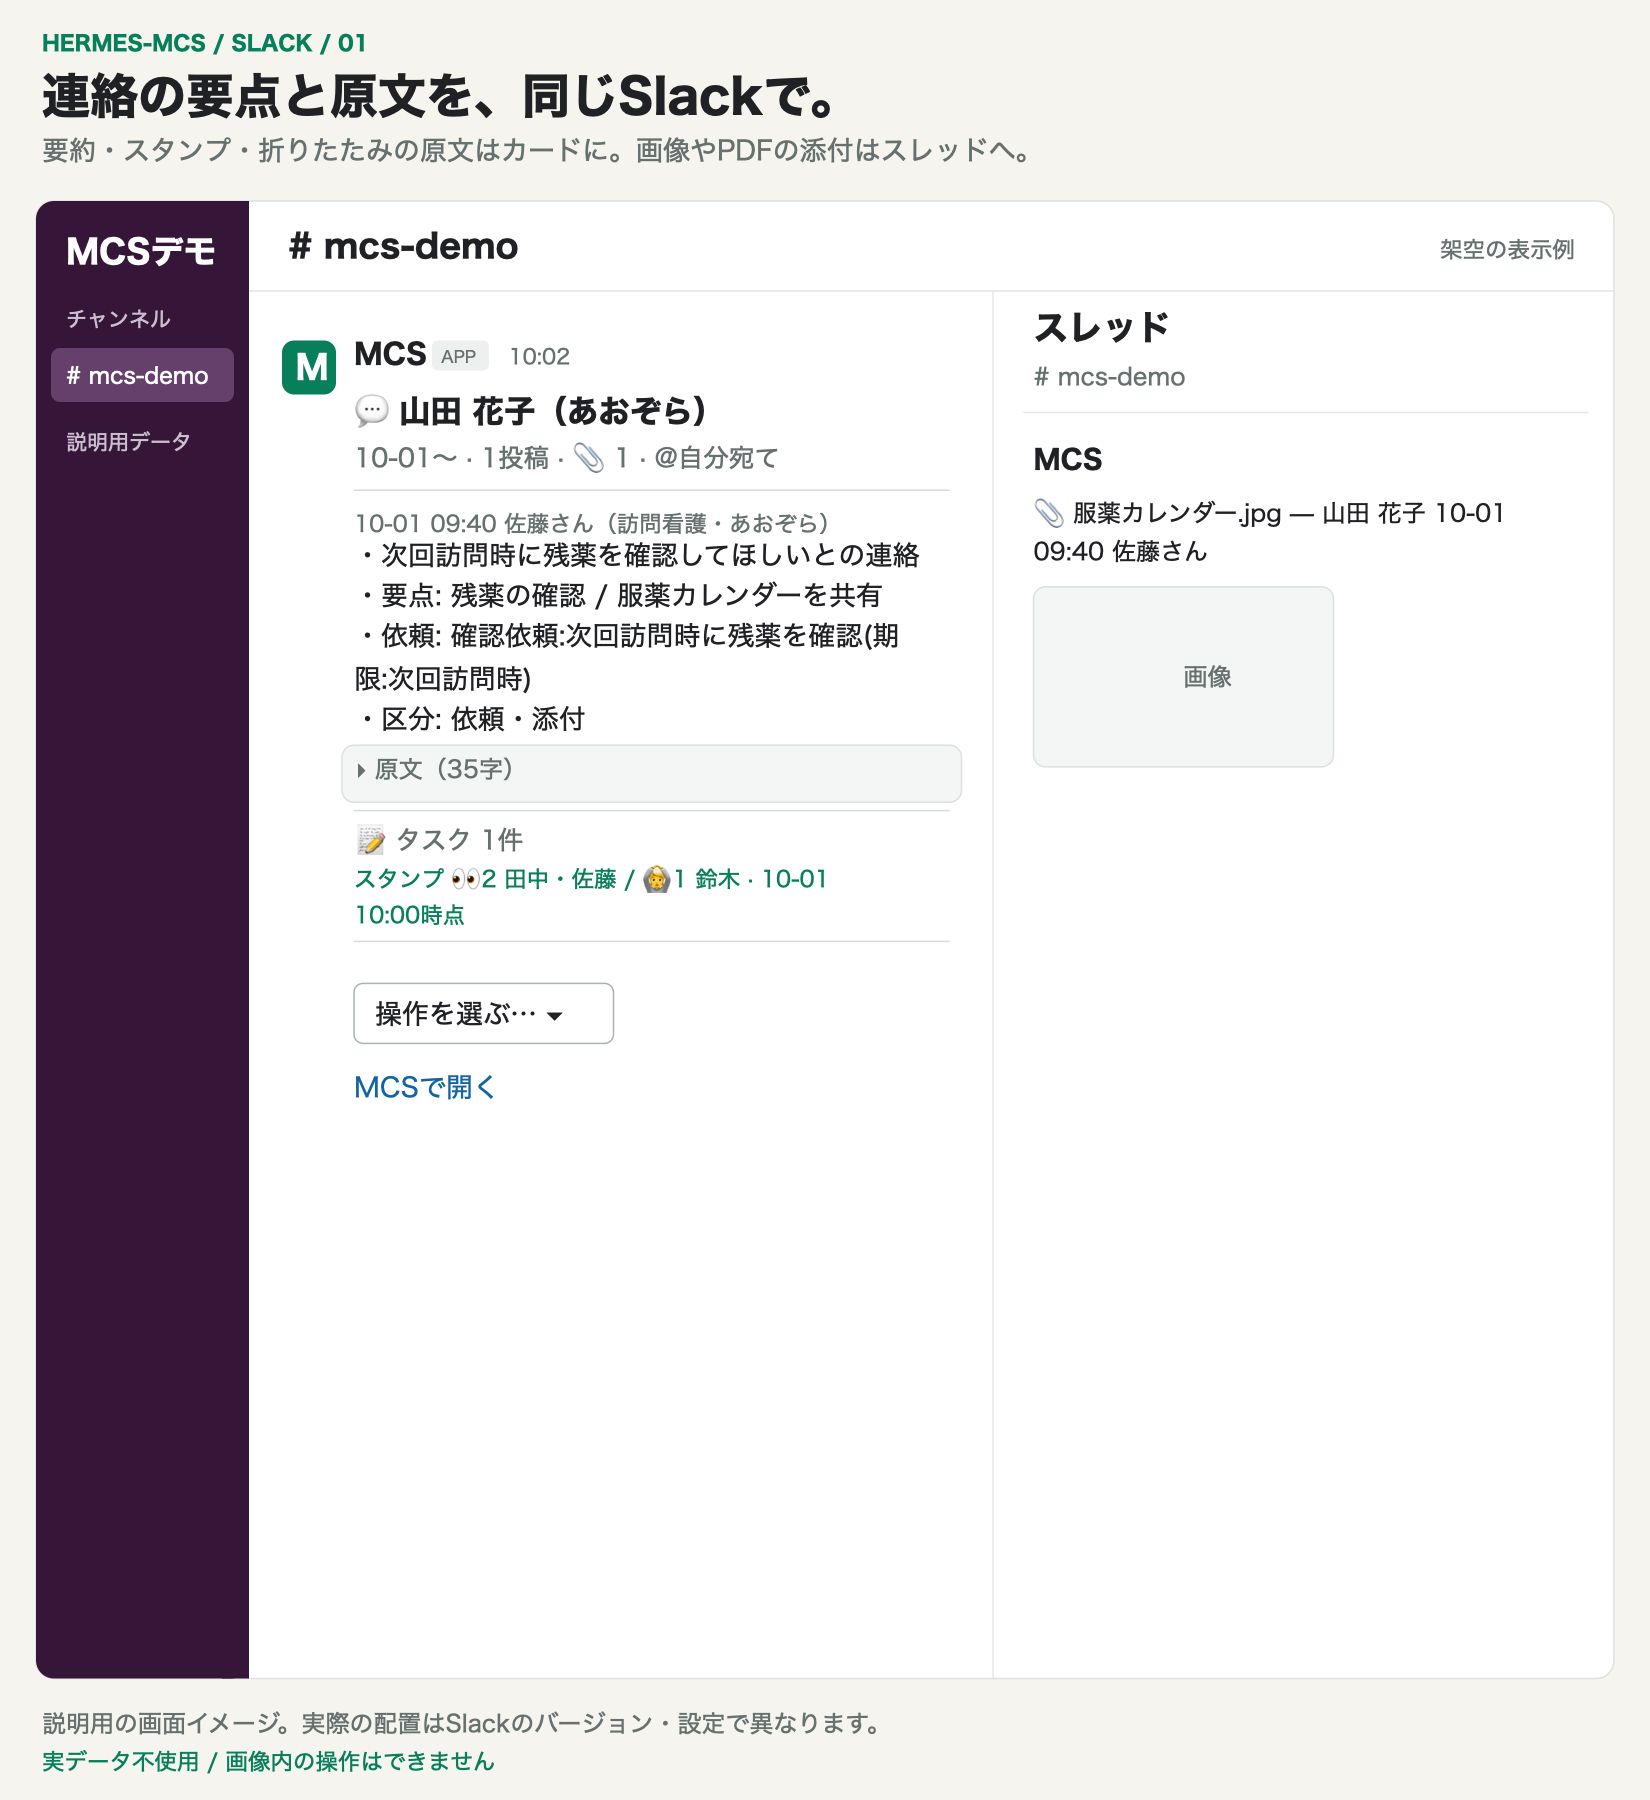
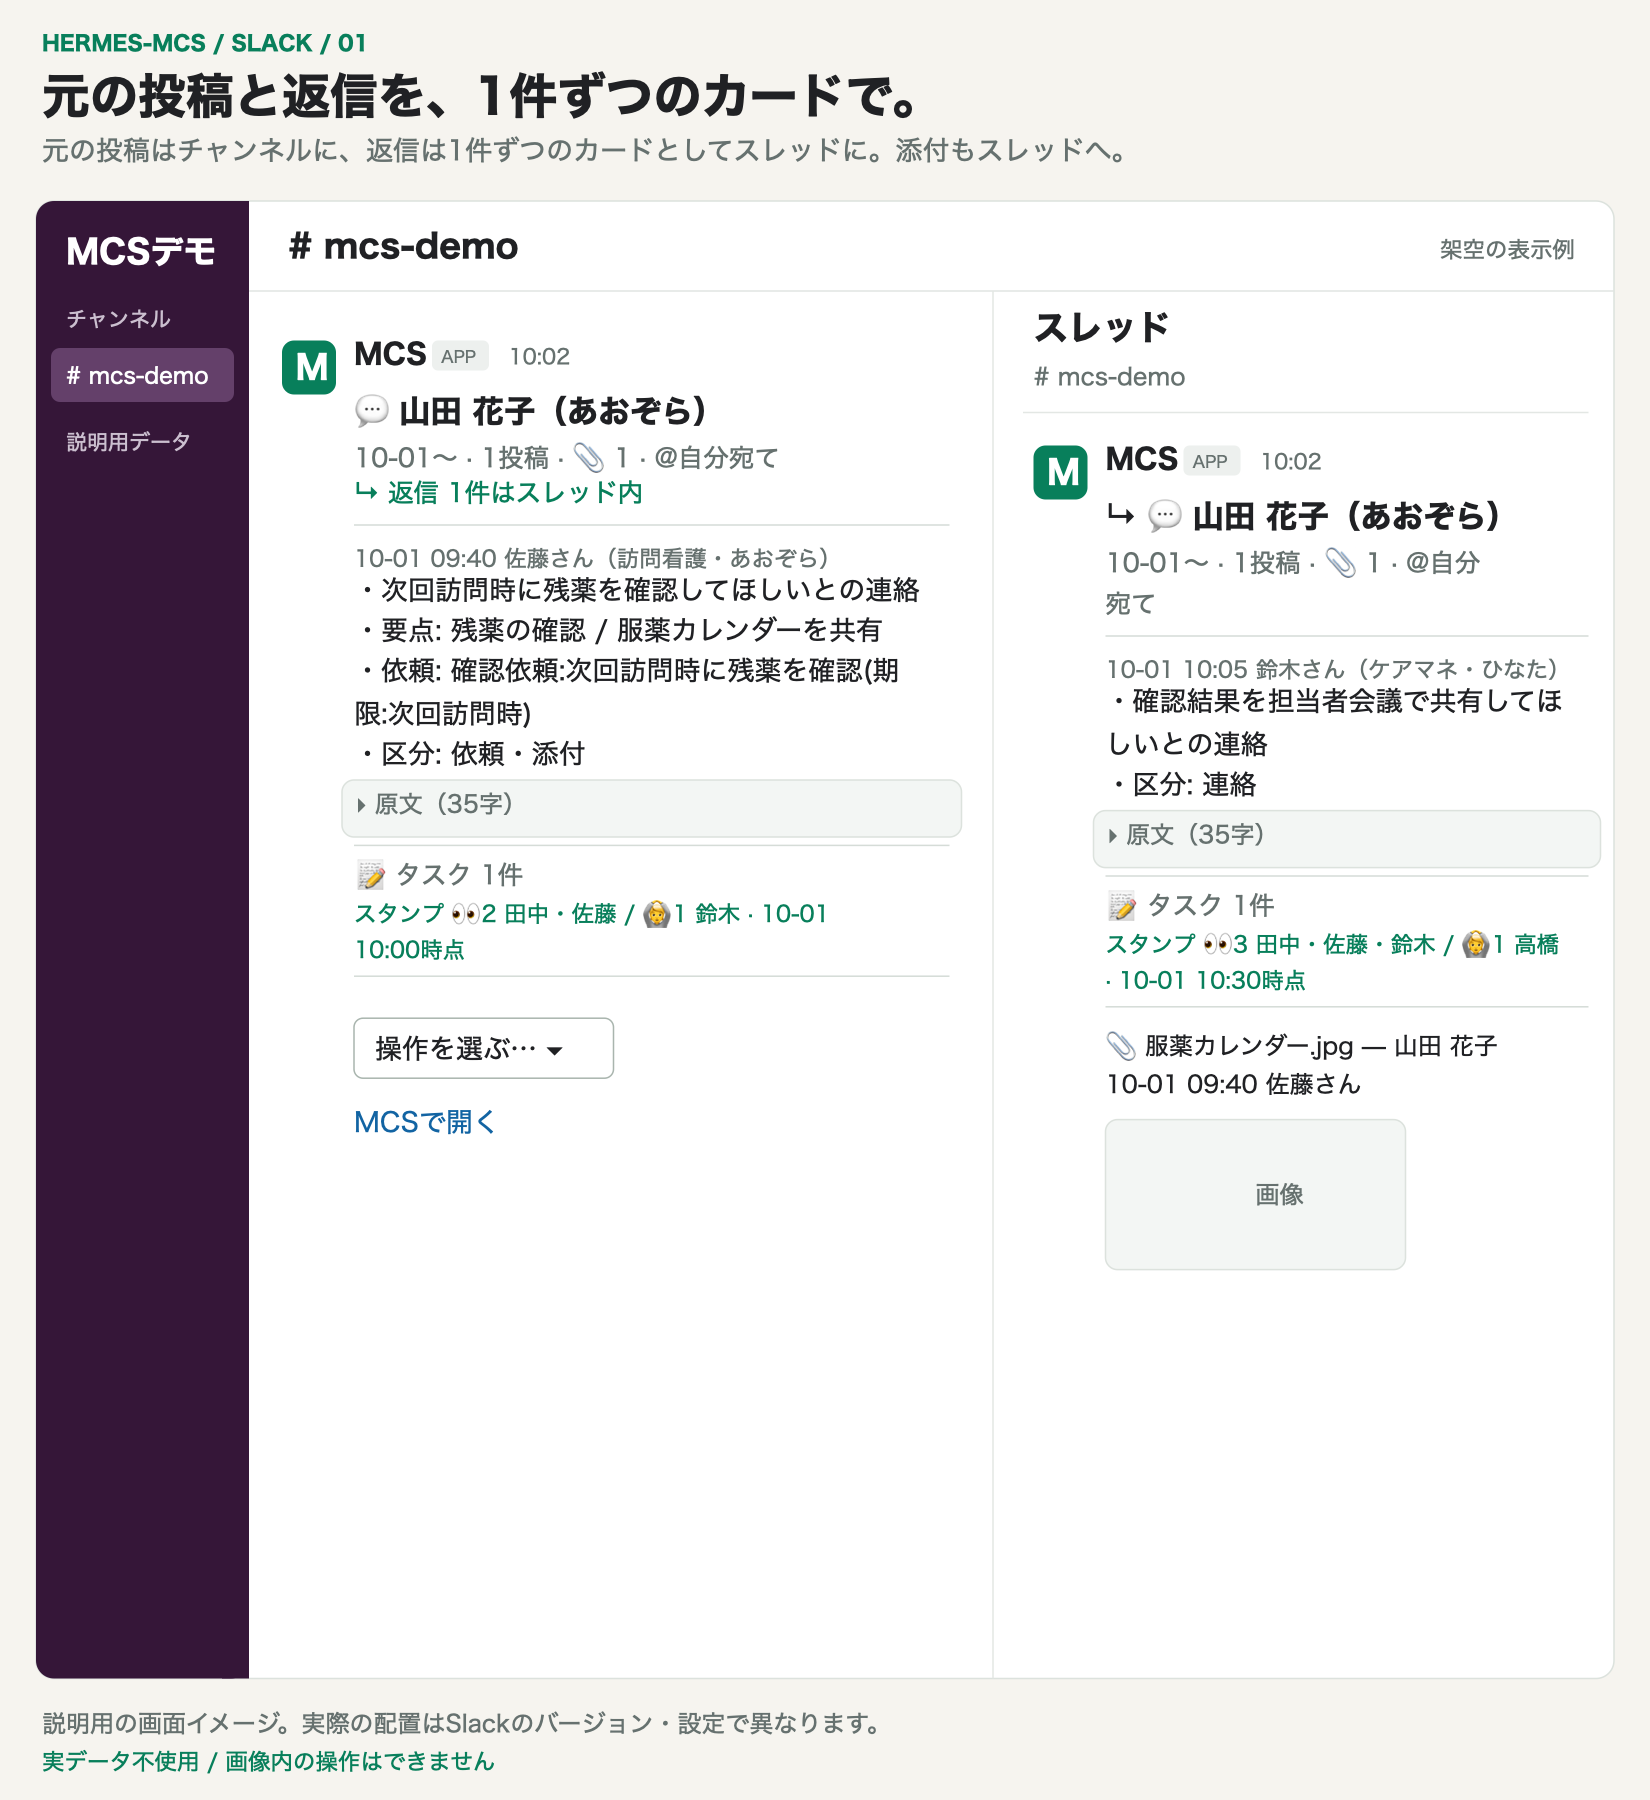
docs(release): README and Slack gallery for reply cards
01-overview and 02-notification now show the root card and the reply card
in its thread (generator + SVG/PNG + assets.json). README describes reply
cards (default on, notify.reply_cards=false for the old layout) and that
card actions and stamps target the card's own post; readme-review records
the 2026-10-23 checks including the official drug master comparison.

diff --git a/scripts/development/generate_slack_gallery.py b/scripts/development/generate_slack_gallery.py
@@ -131,15 +131,20 @@ class Screen:
         self.text(x, y + 76, "MCSで開く", 18, "#1264a3")
         return y + 100
 
-    def card(self, x, y, width=770, full=False, stamp_controls=False):
+    def card(self, x, y, width=770, full=False, stamp_controls=False, post=0, replies=0):
         """Card zones top to bottom: patient title, meta line, per post a
         small time/sender line over its summary and folded source text,
-        then one area for observed stamps and their sending menu."""
-        y = self.paragraph(x, y, HEADING, width, 21, INK, True)
+        then one area for observed stamps and their sending menu.
+        Reply cards (layout 4) show one post each: the root card adds
+        "↳ 返信 N件はスレッド内", a reply card (post>0) sits in the thread."""
+        y = self.paragraph(x, y, HEADING if post == 0 else "↳ " + HEADING, width, 21, INK, True)
         y = self.paragraph(x, y - 4, META.format(n=2 if full else 1), width, 17, MUTED)
         if full:
             y = self.paragraph(x, y - 4, "🆕 返信+1", width, 17, GREEN)
-        for (sender, bullets), stamps in zip(POSTS[:2 if full else 1], STAMPS):
+        if replies:
+            y = self.paragraph(x, y - 4, f"↳ 返信 {replies}件はスレッド内", width, 17, GREEN)
+        shown = POSTS[:2] if full else POSTS[post:post + 1]
+        for (sender, bullets), stamps in zip(shown, STAMPS[0 if full else post:]):
             y = self.rule(x, y, width)
             y = self.paragraph(x, y, sender, width, 15, MUTED)
             for bullet in bullets:
@@ -148,7 +153,7 @@ class Screen:
         y = self.rule(x, y, width)
         for line in STATE if full else ("📝 タスク 1件",):
             y = self.paragraph(x, y - 2, line, width, 17, MUTED)
-        for (sender, _), stamps in zip(POSTS[:2 if full else 1], STAMPS):
+        for (sender, _), stamps in zip(shown, STAMPS[0 if full else post:]):
             if full:
                 y = self.paragraph(x, y - 2, sender, width, 15, MUTED)
             y = self.paragraph(x, y - 2, stamps, width, 15, GREEN)
@@ -167,24 +172,27 @@ class Screen:
 
 
 def overview():
-    s = Screen(1, "連絡の要点と原文を、同じSlackで。", "要約・スタンプ・折りたたみの原文はカードに。画像やPDFの添付はスレッドへ。", 1200)
+    s = Screen(1, "元の投稿と返信を、1件ずつのカードで。", "元の投稿はチャンネルに、返信は1件ずつのカードとしてスレッドに。添付もスレッドへ。", 1200)
     s.line(662, 194, 662, 1119)
     x, y = s.app(188, 227)
-    s.actions(x, s.card(x, y, 397))
+    s.actions(x, s.card(x, y, 397, replies=1))
     s.text(689, 227, "スレッド", 23, INK, True)
     s.text(689, 257, "# mcs-demo", 16, MUTED)
     s.line(682, 275, 1059, 275)
-    s.text(689, 313, "MCS", 18, INK, True)
-    y = s.paragraph(689, 348, "📎 服薬カレンダー.jpg — 山田 花子 10-01 09:40 佐藤さん", 354, 16)
-    s.rect(689, y - 8, 200, 120, "#f3f6f4", 8, "#dce2dd")
-    s.text(789, y + 58, "画像", 16, MUTED)
+    tx, ty = s.app(689, 297)
+    y = s.card(tx, ty, 322, post=1)
+    y = s.paragraph(tx, y + 4, "📎 服薬カレンダー.jpg — 山田 花子 10-01 09:40 佐藤さん", 322, 16)
+    s.rect(tx, y - 8, 200, 100, "#f3f6f4", 8, "#dce2dd")
+    s.text(tx + 100, y + 48, "画像", 16, MUTED)
     return s.finish()
 
 
 def notification():
-    s = Screen(2, "通知カードから、確認と担当を共有。", "要約と原文の下に、受信したスタンプを集約。複数投稿は対象を区別して表示します。", 1180)
+    s = Screen(2, "返信ごとのカードで、確認と担当を共有。", "各カードの要約・原文・スタンプ・操作は、そのカードの投稿だけが対象です。", 1180)
     x, y = s.app()
-    s.actions(x, s.card(x, y, full=True))
+    y = s.actions(x, s.card(x, y, replies=1))
+    s.text(x, y + 40, "スレッド内の返信カード", 17, MUTED, True)
+    s.card(x, y + 76, post=1)
     return s.finish()
 
 

diff --git a/docs/screenshots/slack-gallery/README.md b/docs/screenshots/slack-gallery/README.md
@@ -13,7 +13,7 @@ PNGは日本語フォントやSVGの描画差に左右されず表示できるRE
 
 | 画面 | 根拠 |
 |---|---|
-| `01-overview` | `docs/guides/USER_GUIDE.md`、`adapters/slack/delivery.py`（カード・添付の配送）、`mcs/notify/notify_parts.py`の`face_posts`（投稿ごとの要約と原文をカード本文へ。スタンプは下部の共通エリアに集約。添付の`📎`行と要約を含まない見出し）、`adapters/slack/presentation.py`の`render_parts`・`_folded_original`（スタンプ行は小さな補足表示、原文は`原文（N字）`の折りたたみブロック）、`present_slack.face_block_count`（収まらない投稿はスレッド本文へ） |
+| `01-overview` | `mcs/notify/notify_cards.py`の`_split_reply_targets`・`_bind_reply_thread`と`notify_render.reply_source`（元の投稿のカードと、スレッド内の返信カード）、`docs/guides/USER_GUIDE.md`、`adapters/slack/delivery.py`（カード・添付の配送）、`mcs/notify/notify_parts.py`の`face_posts`（投稿ごとの要約と原文をカード本文へ。スタンプは下部の共通エリアに集約。添付の`📎`行と要約を含まない見出し）、`adapters/slack/presentation.py`の`render_parts`・`_folded_original`（スタンプ行は小さな補足表示、原文は`原文（N字）`の折りたたみブロック）、`present_slack.face_block_count`（収まらない投稿はスレッド本文へ） |
 | `02-notification` | `mcs/notify/notify_render.py`の`card_content`・`_thread_context`・`_footer`（概要・投稿ごとの要約・状態の区画）、`adapters/slack/cards.py`（区画間の区切り線、確認・担当・タスク作成も含めた「操作を選ぶ…」、`MCSで開く`のテキストリンク）、`mcs/notify/notify_action_tokens.py`の`ACTIONS`、`mcs/stamps/stamp_format.py`（スタンプの件数・表示）、`mcs/views/message_metadata.py`（自分の投稿数） |
 | `03-actions` | `notify_cards._stamp_target`・`_action_rows`・`adapters/slack/cards.py`（観測済みスタンプのエリアに送信用`static_select`を配置。メニュー展開→最新投稿への種類選択の2段階。runnerのラベルで絵文字と名前を表示し、自分の種類は`✓（取消）`）。5種類と「🗂 別の投稿」を選択肢として保持する。通常操作は確認・担当・タスク作成を含め元の順で選択メニューへ。患者の検索は常に含み、全体の新着集計・自分のタスク・未確認一覧は集計カードだけ。その他の表示項目は状態・設定に依存 |
 | `04-task-form` | `adapters/common/forms.py`の`modal_fields`、`adapters/slack/actions.py`の`_open_modal` |
@@ -48,6 +48,7 @@ Inkscapeのない環境では一時コピーのSVG viewportだけを正方形へ
 `verify_png()`と`asset_hashes()`でPNGの完結性・寸法・SVG/PNGのハッシュを検査・同期した。
 2026-10-20の`03-actions`はMCSスタンプを有効にした場合のメニューを追加し、同じQuick Look＋ImageMagickの手順で描画した。ほかの7画面は変更していない。
 同日の1回押しへの変更では、`03-actions`にスタンプ列と本人状態の強調表示を追加し、投稿を選ぶフォームもメニューに残した。ほかの7画面は変更していない。
+2026-10-23の返信カード（layout 4、既定で有効）では、`01-overview`を元の投稿のカードとスレッド内の返信カード・添付に、`02-notification`を元の投稿のカードと返信カードの2枚に描き直し、同じQuick Look＋ImageMagickの手順でPNGを再生成した。ほかの6画面は変更していない。
 小型表示の候補では`01-overview`・`02-notification`・`03-actions`の通常操作をメニューへ集約し、`03-actions`に3組の小型操作欄を描いた。生成器からSVGを更新し、同じQuick Look＋ImageMagickの手順でPNGを再生成する。
 2026-10-21の識別性修正では、実モバイルで親指に固定された小型部品を標準の名前付きボタンへ置き換え、`03-actions`だけを再生成した。6個目の「🗂 別の投稿」は対象選択であり、スタンプは5種類。
 絵文字の描画は環境によって異なり、実アプリの表示とは区別する。
